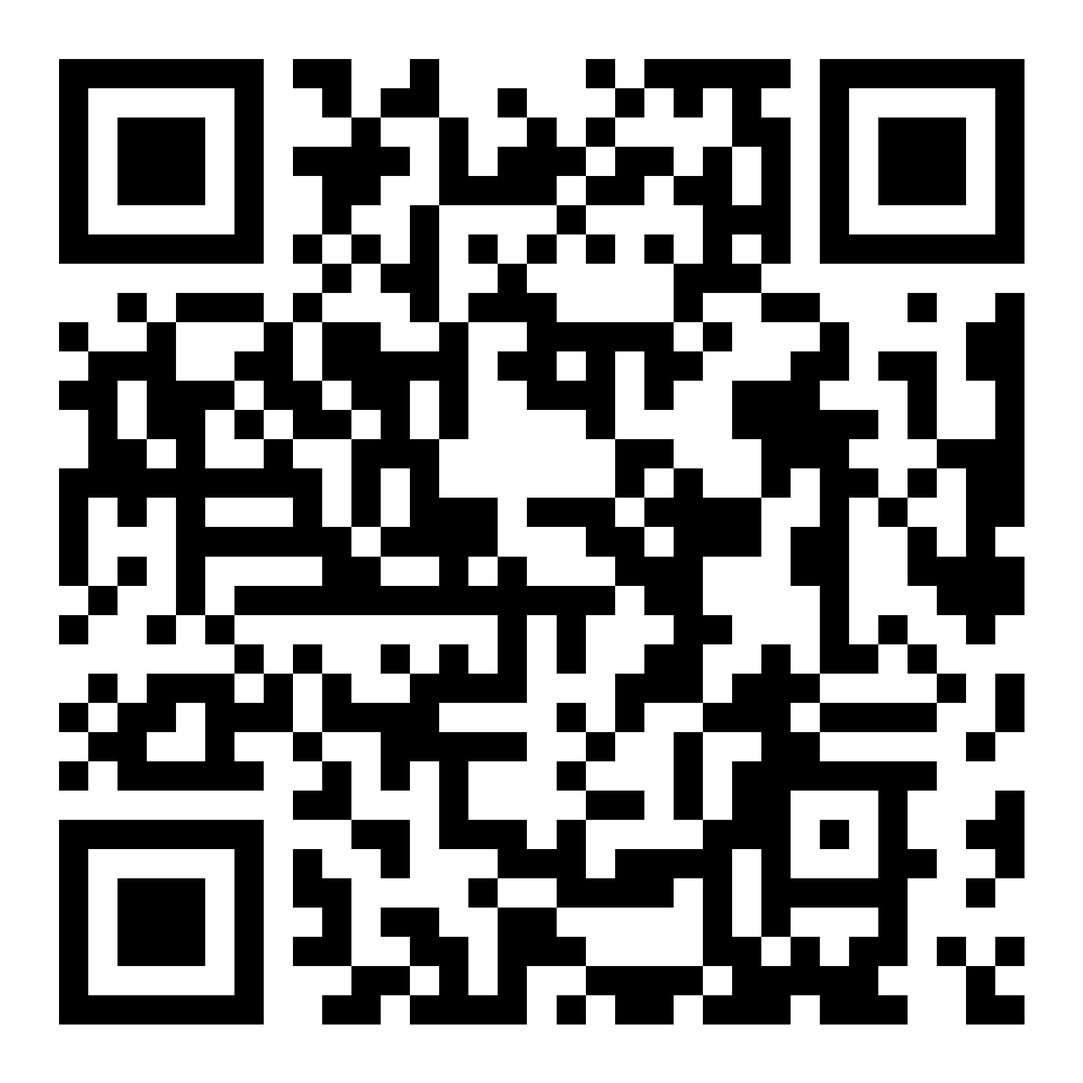
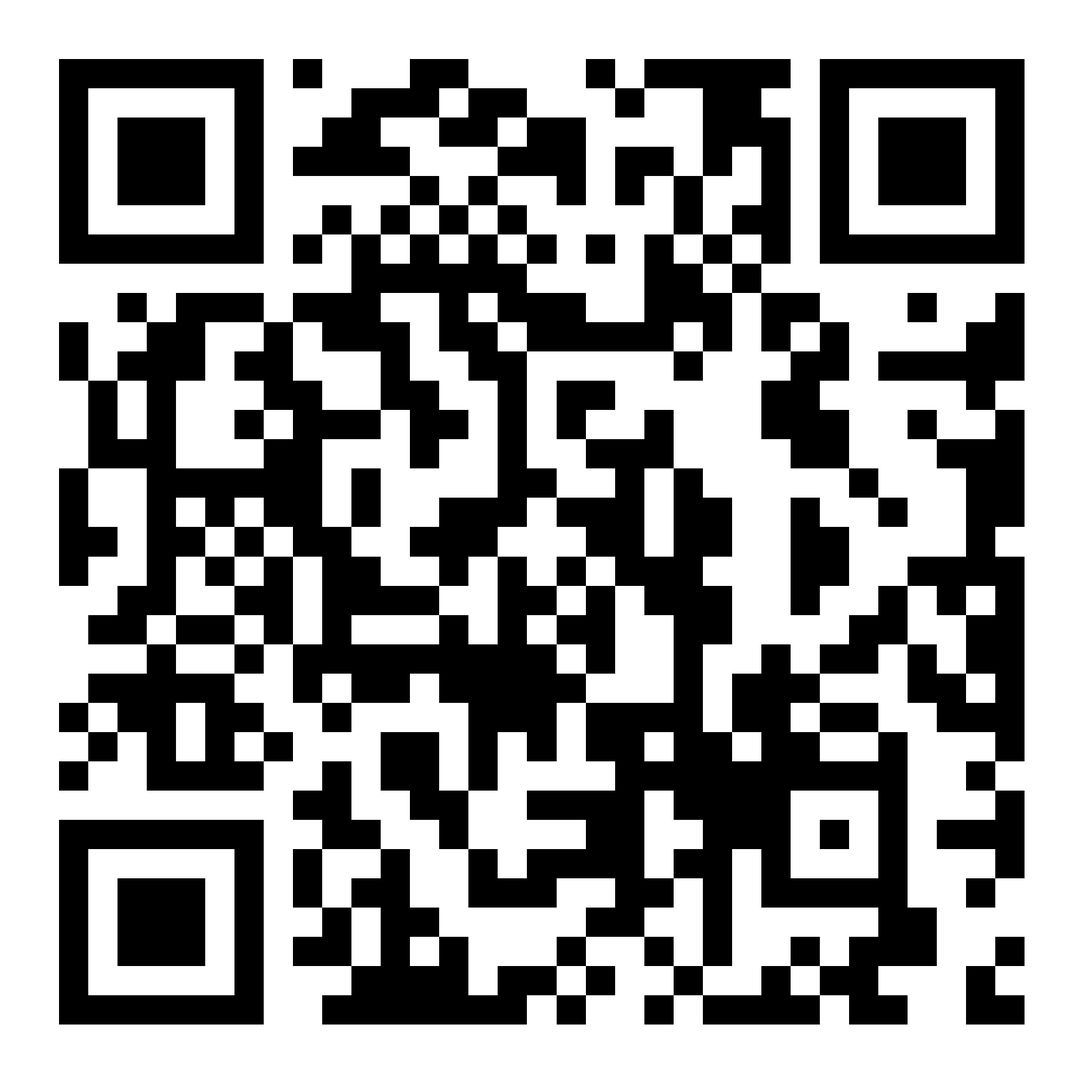
Apply the site's green palette and restructure for its own subdomain
Swaps the placeholder colors for the real ones from southhigh76.com:
#0F3E07 primary, #06280B darkest, #093F01 for borders and outlines, over
the light mint wash (#E8F3E0 to #F0F7E7) on white cards. Drops the gold
accent, which the site doesn't use.

The wall is going up as its own Netlify project at photos.southhigh76.com
rather than inside the main site, so it now lives at the root instead of
under /photos. Static files move to public/, which is the only directory
published — node_modules, the tests and the QR tooling were previously in
range of a publish = "." and would have gone up with it. The "back to the
reunion site" link becomes absolute, since "/" is now the wall itself.

The printable table tents are generated by qr/generate.mjs with the QR
inlined, so the code on the signs can't drift from the code files. Default
target is photos.southhigh76.com.

Verified the green codes decode to the right URL from the PNGs and from
the sign as a browser renders it; #0F3E07 on white is 12.3:1, well inside
what scanners need.

Claude-Session: https://claude.ai/code/session_01MLZYPyuEck4Eg8xHK2qmxk

diff --git a/qr/print-signs.html b/qr/print-signs.html
@@ -5,29 +5,29 @@
 <meta name="viewport" content="width=device-width, initial-scale=1">
 <title>Reunion Photo Wall — Printable Signs</title>
 <style>
-:root{--green:#14603c;--gold:#c8952b;--cream:#f7f4ed}
+:root{--green:#0F3E07;--green-deep:#093F01;--mint:#E8F3E0}
 *{margin:0;padding:0;box-sizing:border-box}
-body{font-family:Georgia,"Times New Roman",serif;background:#e8e6e0;color:#1a1a1a}
+body{font-family:Georgia,"Times New Roman",serif;background:#DDEAD3;color:#16210F}
 
-.hint{max-width:760px;margin:24px auto;padding:16px 20px;background:#fff;border-left:4px solid var(--gold);
+.hint{max-width:760px;margin:24px auto;padding:16px 20px;background:#fff;border-left:4px solid var(--green);
   font-family:-apple-system,BlinkMacSystemFont,"Segoe UI",Roboto,sans-serif;font-size:14px;line-height:1.6;border-radius:6px}
 .hint strong{display:block;margin-bottom:4px;font-size:15px}
 
 /* Two cards per portrait Letter page — cut across the middle for table tents. */
 .page{width:8.5in;height:11in;margin:20px auto;background:#fff;display:flex;flex-direction:column;
-  box-shadow:0 4px 24px rgba(0,0,0,.16)}
+  box-shadow:0 4px 24px rgba(15,62,7,.18)}
 .card{flex:1;display:flex;flex-direction:column;align-items:center;justify-content:center;
   text-align:center;padding:0.5in 0.6in;position:relative}
-.card + .card{border-top:2px dashed #c9c4b8}
+.card + .card{border-top:2px dashed #B9D3A6}
 
 .kicker{font-family:-apple-system,BlinkMacSystemFont,"Segoe UI",sans-serif;font-size:11pt;
-  letter-spacing:.18em;text-transform:uppercase;color:var(--gold);font-weight:700;margin-bottom:6px}
+  letter-spacing:.18em;text-transform:uppercase;color:var(--green-deep);font-weight:700;margin-bottom:6px}
 h1{font-size:30pt;color:var(--green);line-height:1.1;margin-bottom:8px}
-.sub{font-size:13pt;color:#4a4a4a;margin-bottom:16px;max-width:5in}
-.qr{width:2.5in;height:2.5in;border:10px solid #fff;outline:1px solid #e0ddd5}
+.sub{font-size:13pt;color:#3d4a36;margin-bottom:16px;max-width:5in}
+.qr{width:2.5in;height:2.5in;border:10px solid #fff;outline:1px solid #D3E5C6}
 .url{font-family:-apple-system,BlinkMacSystemFont,"Segoe UI",sans-serif;font-size:12pt;font-weight:700;
   color:var(--green);margin-top:14px;letter-spacing:.01em}
-.steps{font-family:-apple-system,BlinkMacSystemFont,"Segoe UI",sans-serif;font-size:10pt;color:#6b6b6b;margin-top:8px}
+.steps{font-family:-apple-system,BlinkMacSystemFont,"Segoe UI",sans-serif;font-size:10pt;color:#5F6B58;margin-top:8px}
 
 @media print{
   body{background:#fff}
@@ -44,7 +44,7 @@ h1{font-size:30pt;color:var(--green);line-height:1.1;margin-bottom:8px}
   <strong>How to use this sheet</strong>
   Print on regular Letter paper (portrait). You get two identical cards per page — cut along the dashed
   line and fold or stand them on the tables. Print as many pages as you need tents. The QR is vector, so
-  it stays sharp at any size. Check "Background graphics" in your print dialog so the green and gold show up.
+  it stays sharp at any size. Check "Background graphics" in your print dialog so the green shows up.
 </div>
 
 <div class="page">
@@ -54,9 +54,9 @@ h1{font-size:30pt;color:var(--green);line-height:1.1;margin-bottom:8px}
     <div class="sub">Point your phone camera at the code &mdash; your pictures go straight up on the reunion photo wall.</div>
     <svg class="qr" viewBox="0 0 37 37" shape-rendering="crispEdges" xmlns="http://www.w3.org/2000/svg">
       <path fill="#ffffff" d="M0 0h37v37H0z"/>
-      <path stroke="#14603c" d="M2 2.5h7m1 0h2m2 0h1m5 0h1m1 0h5m1 0h7M2 3.5h1m5 0h1m2 0h1m1 0h2m2 0h1m3 0h1m1 0h1m1 0h1m2 0h1m5 0h1M2 4.5h1m1 0h3m1 0h1m3 0h1m2 0h1m2 0h1m1 0h1m4 0h2m1 0h1m1 0h3m1 0h1M2 5.5h1m1 0h3m1 0h1m1 0h4m1 0h1m1 0h3m1 0h2m1 0h1m1 0h1m1 0h1m1 0h3m1 0h1M2 6.5h1m1 0h3m1 0h1m2 0h2m2 0h4m1 0h2m1 0h2m1 0h1m1 0h1m1 0h3m1 0h1M2 7.5h1m5 0h1m2 0h1m2 0h1m4 0h1m4 0h3m1 0h1m5 0h1M2 8.5h7m1 0h1m1 0h1m1 0h1m1 0h1m1 0h1m1 0h1m1 0h1m1 0h1m1 0h1m1 0h7M11 9.5h1m1 0h2m2 0h1m5 0h3M4 10.5h1m1 0h3m1 0h1m3 0h1m1 0h3m4 0h1m2 0h2m3 0h1m2 0h1M2 11.5h1m2 0h1m3 0h1m1 0h2m2 0h1m2 0h5m1 0h1m3 0h1m4 0h2M3 12.5h3m2 0h2m1 0h5m1 0h2m1 0h1m1 0h2m3 0h2m1 0h2m1 0h2M2 13.5h2m1 0h3m1 0h2m1 0h2m1 0h1m2 0h3m1 0h1m2 0h3m3 0h1m2 0h1M3 14.5h1m1 0h2m1 0h1m1 0h2m1 0h1m1 0h1m4 0h1m4 0h5m1 0h1m2 0h1M3 15.5h2m1 0h1m2 0h1m2 0h3m6 0h2m3 0h3m3 0h3M2 16.5h9m1 0h1m1 0h1m6 0h1m1 0h1m2 0h1m1 0h2m1 0h1m1 0h2M2 17.5h1m1 0h1m1 0h1m3 0h1m1 0h1m1 0h3m1 0h3m1 0h4m2 0h1m1 0h1m2 0h2M2 18.5h1m3 0h6m1 0h4m3 0h2m1 0h3m1 0h2m2 0h1m1 0h1M2 19.5h1m1 0h1m1 0h1m4 0h2m2 0h1m1 0h1m3 0h3m3 0h2m2 0h4M3 20.5h1m2 0h1m1 0h13m1 0h2m4 0h1m3 0h3M2 21.5h1m2 0h1m1 0h1m9 0h1m1 0h1m3 0h2m3 0h1m1 0h1m2 0h1M8 22.5h1m1 0h1m2 0h1m1 0h1m1 0h1m1 0h1m2 0h2m2 0h1m1 0h2m1 0h1M3 23.5h1m1 0h3m1 0h1m1 0h1m2 0h4m3 0h3m1 0h3m4 0h1m1 0h1M2 24.5h1m1 0h2m1 0h3m1 0h4m4 0h1m1 0h1m2 0h3m1 0h4m2 0h1M3 25.5h2m2 0h1m2 0h1m2 0h5m2 0h1m2 0h1m2 0h2m5 0h1M2 26.5h1m1 0h5m2 0h1m1 0h1m1 0h1m3 0h1m3 0h1m1 0h7M10 27.5h2m3 0h1m4 0h2m1 0h1m1 0h2m3 0h1m3 0h1M2 28.5h7m3 0h2m1 0h3m1 0h1m4 0h3m1 0h1m1 0h1m2 0h2M2 29.5h1m5 0h1m1 0h1m2 0h1m3 0h3m1 0h4m1 0h1m3 0h2m2 0h1M2 30.5h1m1 0h3m1 0h1m1 0h2m4 0h1m2 0h4m1 0h1m1 0h5m2 0h1M2 31.5h1m1 0h3m1 0h1m2 0h1m1 0h2m2 0h2m5 0h1m1 0h1m3 0h1M2 32.5h1m1 0h3m1 0h1m1 0h2m2 0h2m1 0h3m4 0h2m1 0h1m1 0h2m1 0h1m1 0h1M2 33.5h1m5 0h1m3 0h2m1 0h1m1 0h1m2 0h4m1 0h5m3 0h1M2 34.5h7m2 0h2m1 0h4m1 0h1m1 0h2m1 0h3m1 0h3m2 0h2"/>
+      <path stroke="#0F3E07" d="M2 2.5h7m1 0h1m3 0h2m4 0h1m1 0h5m1 0h7M2 3.5h1m5 0h1m3 0h3m1 0h2m3 0h1m2 0h2m2 0h1m5 0h1M2 4.5h1m1 0h3m1 0h1m2 0h2m2 0h2m1 0h2m4 0h3m1 0h1m1 0h3m1 0h1M2 5.5h1m1 0h3m1 0h1m1 0h4m3 0h3m1 0h2m1 0h1m1 0h1m1 0h1m1 0h3m1 0h1M2 6.5h1m1 0h3m1 0h1m5 0h1m1 0h1m2 0h1m1 0h1m1 0h1m2 0h1m1 0h1m1 0h3m1 0h1M2 7.5h1m5 0h1m2 0h1m1 0h1m1 0h1m1 0h1m5 0h1m1 0h2m1 0h1m5 0h1M2 8.5h7m1 0h1m1 0h1m1 0h1m1 0h1m1 0h1m1 0h1m1 0h1m1 0h1m1 0h1m1 0h7M12 9.5h6m4 0h2m1 0h1M4 10.5h1m1 0h3m1 0h3m2 0h1m1 0h3m2 0h3m1 0h2m3 0h1m2 0h1M2 11.5h1m2 0h2m2 0h1m1 0h3m1 0h2m1 0h5m1 0h1m1 0h1m1 0h1m4 0h2M2 12.5h1m1 0h3m1 0h2m3 0h1m2 0h2m5 0h1m3 0h2m1 0h5M3 13.5h1m1 0h1m3 0h2m2 0h2m2 0h1m1 0h2m5 0h2m5 0h1M3 14.5h1m1 0h1m2 0h1m1 0h3m1 0h2m1 0h1m1 0h1m2 0h1m3 0h3m2 0h1m2 0h1M3 15.5h3m3 0h2m3 0h1m2 0h1m2 0h3m4 0h2m3 0h3M2 16.5h1m2 0h6m1 0h1m4 0h2m2 0h1m1 0h1m5 0h1m3 0h2M2 17.5h1m2 0h1m1 0h1m1 0h2m1 0h1m2 0h3m1 0h3m1 0h2m2 0h1m2 0h1m2 0h2M2 18.5h2m1 0h2m1 0h1m1 0h2m2 0h3m3 0h2m1 0h2m2 0h2m4 0h1M2 19.5h1m2 0h1m1 0h1m1 0h1m1 0h2m2 0h1m1 0h1m1 0h1m1 0h3m3 0h2m2 0h4M4 20.5h2m2 0h2m1 0h4m2 0h2m1 0h1m1 0h3m2 0h1m2 0h1m1 0h1m1 0h1M3 21.5h2m1 0h2m1 0h1m1 0h1m3 0h1m1 0h1m1 0h2m2 0h2m4 0h2m2 0h2M5 22.5h1m2 0h1m1 0h9m1 0h1m2 0h1m2 0h1m1 0h2m1 0h1m1 0h2M3 23.5h5m2 0h1m1 0h2m1 0h5m3 0h1m1 0h3m3 0h2m1 0h1M2 24.5h1m1 0h2m1 0h2m2 0h1m4 0h3m1 0h4m1 0h2m1 0h2m2 0h3M3 25.5h1m1 0h1m1 0h1m1 0h1m3 0h2m1 0h1m1 0h1m1 0h2m1 0h2m1 0h2m2 0h1m3 0h1M2 26.5h1m2 0h4m2 0h1m1 0h2m1 0h1m4 0h10m2 0h1M10 27.5h2m2 0h2m2 0h4m1 0h4m3 0h1m3 0h1M2 28.5h7m2 0h2m2 0h1m4 0h2m2 0h3m1 0h1m1 0h1m1 0h3M2 29.5h1m5 0h1m1 0h1m2 0h1m2 0h1m1 0h4m1 0h2m1 0h1m3 0h1m3 0h1M2 30.5h1m1 0h3m1 0h1m1 0h1m1 0h2m2 0h3m2 0h2m1 0h1m1 0h5m2 0h1M2 31.5h1m1 0h3m1 0h1m2 0h1m1 0h2m5 0h2m2 0h1m5 0h2M2 32.5h1m1 0h3m1 0h1m1 0h2m1 0h1m1 0h1m3 0h1m2 0h1m1 0h1m2 0h1m1 0h3m2 0h1M2 33.5h1m5 0h1m3 0h4m1 0h2m1 0h1m2 0h1m2 0h1m1 0h2m3 0h1M2 34.5h7m2 0h7m1 0h1m2 0h1m1 0h4m1 0h2m2 0h2"/>
     </svg>
-    <div class="url">southhigh76.com/photos</div>
+    <div class="url">photos.southhigh76.com</div>
     <div class="steps">No app, no sign-up &middot; See everyone else&rsquo;s photos too</div>
   </div>
   <div class="card">
@@ -65,9 +65,9 @@ h1{font-size:30pt;color:var(--green);line-height:1.1;margin-bottom:8px}
     <div class="sub">Point your phone camera at the code &mdash; your pictures go straight up on the reunion photo wall.</div>
     <svg class="qr" viewBox="0 0 37 37" shape-rendering="crispEdges" xmlns="http://www.w3.org/2000/svg">
       <path fill="#ffffff" d="M0 0h37v37H0z"/>
-      <path stroke="#14603c" d="M2 2.5h7m1 0h2m2 0h1m5 0h1m1 0h5m1 0h7M2 3.5h1m5 0h1m2 0h1m1 0h2m2 0h1m3 0h1m1 0h1m1 0h1m2 0h1m5 0h1M2 4.5h1m1 0h3m1 0h1m3 0h1m2 0h1m2 0h1m1 0h1m4 0h2m1 0h1m1 0h3m1 0h1M2 5.5h1m1 0h3m1 0h1m1 0h4m1 0h1m1 0h3m1 0h2m1 0h1m1 0h1m1 0h1m1 0h3m1 0h1M2 6.5h1m1 0h3m1 0h1m2 0h2m2 0h4m1 0h2m1 0h2m1 0h1m1 0h1m1 0h3m1 0h1M2 7.5h1m5 0h1m2 0h1m2 0h1m4 0h1m4 0h3m1 0h1m5 0h1M2 8.5h7m1 0h1m1 0h1m1 0h1m1 0h1m1 0h1m1 0h1m1 0h1m1 0h1m1 0h1m1 0h7M11 9.5h1m1 0h2m2 0h1m5 0h3M4 10.5h1m1 0h3m1 0h1m3 0h1m1 0h3m4 0h1m2 0h2m3 0h1m2 0h1M2 11.5h1m2 0h1m3 0h1m1 0h2m2 0h1m2 0h5m1 0h1m3 0h1m4 0h2M3 12.5h3m2 0h2m1 0h5m1 0h2m1 0h1m1 0h2m3 0h2m1 0h2m1 0h2M2 13.5h2m1 0h3m1 0h2m1 0h2m1 0h1m2 0h3m1 0h1m2 0h3m3 0h1m2 0h1M3 14.5h1m1 0h2m1 0h1m1 0h2m1 0h1m1 0h1m4 0h1m4 0h5m1 0h1m2 0h1M3 15.5h2m1 0h1m2 0h1m2 0h3m6 0h2m3 0h3m3 0h3M2 16.5h9m1 0h1m1 0h1m6 0h1m1 0h1m2 0h1m1 0h2m1 0h1m1 0h2M2 17.5h1m1 0h1m1 0h1m3 0h1m1 0h1m1 0h3m1 0h3m1 0h4m2 0h1m1 0h1m2 0h2M2 18.5h1m3 0h6m1 0h4m3 0h2m1 0h3m1 0h2m2 0h1m1 0h1M2 19.5h1m1 0h1m1 0h1m4 0h2m2 0h1m1 0h1m3 0h3m3 0h2m2 0h4M3 20.5h1m2 0h1m1 0h13m1 0h2m4 0h1m3 0h3M2 21.5h1m2 0h1m1 0h1m9 0h1m1 0h1m3 0h2m3 0h1m1 0h1m2 0h1M8 22.5h1m1 0h1m2 0h1m1 0h1m1 0h1m1 0h1m2 0h2m2 0h1m1 0h2m1 0h1M3 23.5h1m1 0h3m1 0h1m1 0h1m2 0h4m3 0h3m1 0h3m4 0h1m1 0h1M2 24.5h1m1 0h2m1 0h3m1 0h4m4 0h1m1 0h1m2 0h3m1 0h4m2 0h1M3 25.5h2m2 0h1m2 0h1m2 0h5m2 0h1m2 0h1m2 0h2m5 0h1M2 26.5h1m1 0h5m2 0h1m1 0h1m1 0h1m3 0h1m3 0h1m1 0h7M10 27.5h2m3 0h1m4 0h2m1 0h1m1 0h2m3 0h1m3 0h1M2 28.5h7m3 0h2m1 0h3m1 0h1m4 0h3m1 0h1m1 0h1m2 0h2M2 29.5h1m5 0h1m1 0h1m2 0h1m3 0h3m1 0h4m1 0h1m3 0h2m2 0h1M2 30.5h1m1 0h3m1 0h1m1 0h2m4 0h1m2 0h4m1 0h1m1 0h5m2 0h1M2 31.5h1m1 0h3m1 0h1m2 0h1m1 0h2m2 0h2m5 0h1m1 0h1m3 0h1M2 32.5h1m1 0h3m1 0h1m1 0h2m2 0h2m1 0h3m4 0h2m1 0h1m1 0h2m1 0h1m1 0h1M2 33.5h1m5 0h1m3 0h2m1 0h1m1 0h1m2 0h4m1 0h5m3 0h1M2 34.5h7m2 0h2m1 0h4m1 0h1m1 0h2m1 0h3m1 0h3m2 0h2"/>
+      <path stroke="#0F3E07" d="M2 2.5h7m1 0h1m3 0h2m4 0h1m1 0h5m1 0h7M2 3.5h1m5 0h1m3 0h3m1 0h2m3 0h1m2 0h2m2 0h1m5 0h1M2 4.5h1m1 0h3m1 0h1m2 0h2m2 0h2m1 0h2m4 0h3m1 0h1m1 0h3m1 0h1M2 5.5h1m1 0h3m1 0h1m1 0h4m3 0h3m1 0h2m1 0h1m1 0h1m1 0h1m1 0h3m1 0h1M2 6.5h1m1 0h3m1 0h1m5 0h1m1 0h1m2 0h1m1 0h1m1 0h1m2 0h1m1 0h1m1 0h3m1 0h1M2 7.5h1m5 0h1m2 0h1m1 0h1m1 0h1m1 0h1m5 0h1m1 0h2m1 0h1m5 0h1M2 8.5h7m1 0h1m1 0h1m1 0h1m1 0h1m1 0h1m1 0h1m1 0h1m1 0h1m1 0h1m1 0h7M12 9.5h6m4 0h2m1 0h1M4 10.5h1m1 0h3m1 0h3m2 0h1m1 0h3m2 0h3m1 0h2m3 0h1m2 0h1M2 11.5h1m2 0h2m2 0h1m1 0h3m1 0h2m1 0h5m1 0h1m1 0h1m1 0h1m4 0h2M2 12.5h1m1 0h3m1 0h2m3 0h1m2 0h2m5 0h1m3 0h2m1 0h5M3 13.5h1m1 0h1m3 0h2m2 0h2m2 0h1m1 0h2m5 0h2m5 0h1M3 14.5h1m1 0h1m2 0h1m1 0h3m1 0h2m1 0h1m1 0h1m2 0h1m3 0h3m2 0h1m2 0h1M3 15.5h3m3 0h2m3 0h1m2 0h1m2 0h3m4 0h2m3 0h3M2 16.5h1m2 0h6m1 0h1m4 0h2m2 0h1m1 0h1m5 0h1m3 0h2M2 17.5h1m2 0h1m1 0h1m1 0h2m1 0h1m2 0h3m1 0h3m1 0h2m2 0h1m2 0h1m2 0h2M2 18.5h2m1 0h2m1 0h1m1 0h2m2 0h3m3 0h2m1 0h2m2 0h2m4 0h1M2 19.5h1m2 0h1m1 0h1m1 0h1m1 0h2m2 0h1m1 0h1m1 0h1m1 0h3m3 0h2m2 0h4M4 20.5h2m2 0h2m1 0h4m2 0h2m1 0h1m1 0h3m2 0h1m2 0h1m1 0h1m1 0h1M3 21.5h2m1 0h2m1 0h1m1 0h1m3 0h1m1 0h1m1 0h2m2 0h2m4 0h2m2 0h2M5 22.5h1m2 0h1m1 0h9m1 0h1m2 0h1m2 0h1m1 0h2m1 0h1m1 0h2M3 23.5h5m2 0h1m1 0h2m1 0h5m3 0h1m1 0h3m3 0h2m1 0h1M2 24.5h1m1 0h2m1 0h2m2 0h1m4 0h3m1 0h4m1 0h2m1 0h2m2 0h3M3 25.5h1m1 0h1m1 0h1m1 0h1m3 0h2m1 0h1m1 0h1m1 0h2m1 0h2m1 0h2m2 0h1m3 0h1M2 26.5h1m2 0h4m2 0h1m1 0h2m1 0h1m4 0h10m2 0h1M10 27.5h2m2 0h2m2 0h4m1 0h4m3 0h1m3 0h1M2 28.5h7m2 0h2m2 0h1m4 0h2m2 0h3m1 0h1m1 0h1m1 0h3M2 29.5h1m5 0h1m1 0h1m2 0h1m2 0h1m1 0h4m1 0h2m1 0h1m3 0h1m3 0h1M2 30.5h1m1 0h3m1 0h1m1 0h1m1 0h2m2 0h3m2 0h2m1 0h1m1 0h5m2 0h1M2 31.5h1m1 0h3m1 0h1m2 0h1m1 0h2m5 0h2m2 0h1m5 0h2M2 32.5h1m1 0h3m1 0h1m1 0h2m1 0h1m1 0h1m3 0h1m2 0h1m1 0h1m2 0h1m1 0h3m2 0h1M2 33.5h1m5 0h1m3 0h4m1 0h2m1 0h1m2 0h1m2 0h1m1 0h2m3 0h1M2 34.5h7m2 0h7m1 0h1m2 0h1m1 0h4m1 0h2m2 0h2"/>
     </svg>
-    <div class="url">southhigh76.com/photos</div>
+    <div class="url">photos.southhigh76.com</div>
     <div class="steps">No app, no sign-up &middot; See everyone else&rsquo;s photos too</div>
   </div>
 </div>

diff --git a/public/index.html b/public/index.html
@@ -5,7 +5,7 @@
 <meta name="viewport" content="width=device-width, initial-scale=1, viewport-fit=cover">
 <title>Reunion Photos — South High Class of '76</title>
 <meta name="description" content="Share your photos from the South High Class of 1976 reunion.">
-<meta name="theme-color" content="#14603c">
+<meta name="theme-color" content="#0F3E07">
 <style>
 /* ---------------------------------------------------------------
    Palette. These are placeholders until the main site's stylesheet
@@ -13,23 +13,28 @@
    whole page follows.
    --------------------------------------------------------------- */
 :root{
-  --green:#14603c;
-  --green-dark:#0d4429;
-  --gold:#c8952b;
-  --cream:#f7f4ed;
-  --ink:#1a1a1a;
-  --muted:#6b7280;
+  /* Site palette, taken from southhigh76.com. */
+  --green:#0F3E07;        /* primary school green — headings, header, buttons */
+  --green-dark:#06280B;   /* deepest shade — hover, accents */
+  --green-deep:#093F01;   /* button borders and outlines */
+  --mint-1:#E8F3E0;       /* background wash, top */
+  --mint-2:#F0F7E7;       /* background wash, bottom */
+  --mint-soft:#CFE5BE;    /* light green for text on the dark header */
 
-  --card:#ffffff;
-  --border:#e3e0d8;
+  --ink:#16210F;
+  --muted:#5F6B58;
+
+  --card:#FFFFFF;
+  --border:#D3E5C6;
   --radius:14px;
-  --shadow:0 2px 14px rgba(13,68,41,.09);
-  --shadow-lg:0 10px 40px rgba(13,68,41,.18);
+  --shadow:0 2px 14px rgba(15,62,7,.10);
+  --shadow-lg:0 10px 40px rgba(15,62,7,.20);
 }
 *{margin:0;padding:0;box-sizing:border-box;-webkit-tap-highlight-color:transparent}
 body{
   font-family:-apple-system,BlinkMacSystemFont,"Segoe UI",Roboto,Helvetica,Arial,sans-serif;
-  background:var(--cream);color:var(--ink);line-height:1.5;
+  background:linear-gradient(180deg,var(--mint-1),var(--mint-2)) fixed;
+  color:var(--ink);line-height:1.5;
   -webkit-font-smoothing:antialiased;
 }
 img{max-width:100%;display:block}
@@ -39,7 +44,7 @@ img{max-width:100%;display:block}
 header{background:var(--green);color:#fff;padding:28px 0 24px;text-align:center}
 header .kicker{
   font-size:12px;letter-spacing:.16em;text-transform:uppercase;
-  color:var(--gold);font-weight:700;margin-bottom:6px;
+  color:var(--mint-soft);font-weight:700;margin-bottom:6px;
 }
 header h1{font-size:clamp(24px,5vw,34px);font-weight:800;letter-spacing:-.5px}
 header p{color:rgba(255,255,255,.72);font-size:15px;margin-top:6px}
@@ -59,7 +64,7 @@ header a.home:hover{color:#fff}
 
 .field{margin-bottom:14px}
 .field label{display:block;font-size:13px;font-weight:700;margin-bottom:5px}
-.field .req{color:var(--gold)}
+.field .req{color:var(--green-deep)}
 .field input[type=text],.field textarea{
   width:100%;font:inherit;font-size:16px; /* 16px stops iOS zooming on focus */
   padding:11px 13px;border:1px solid var(--border);border-radius:9px;
@@ -73,17 +78,17 @@ header a.home:hover{color:#fff}
 
 .drop{
   border:2px dashed var(--border);border-radius:12px;padding:26px 16px;text-align:center;
-  background:#fbfaf6;cursor:pointer;transition:border-color .15s,background .15s;
+  background:#F7FBF3;cursor:pointer;transition:border-color .15s,background .15s;
 }
-.drop:hover,.drop.over{border-color:var(--green);background:#f1f7f3}
+.drop:hover,.drop.over{border-color:var(--green);background:#EAF4E1}
 .drop .icon{font-size:30px;line-height:1;margin-bottom:8px}
 .drop .big{font-weight:700;font-size:15px}
 .drop .small{color:var(--muted);font-size:13px;margin-top:3px}
 
 .picked{margin-top:12px;display:grid;grid-template-columns:repeat(auto-fill,minmax(72px,1fr));gap:8px}
-.picked figure{position:relative;aspect-ratio:1;border-radius:8px;overflow:hidden;background:#eee}
+.picked figure{position:relative;aspect-ratio:1;border-radius:8px;overflow:hidden;background:#DFEDD4}
 .picked figure.noprev::after{content:'\1F4F7';position:absolute;inset:0;display:flex;align-items:center;
-  justify-content:center;font-size:22px;background:#e6e2d9}
+  justify-content:center;font-size:22px;background:#DFEDD4}
 .picked img{width:100%;height:100%;object-fit:cover}
 .picked button{
   position:absolute;top:3px;right:3px;width:20px;height:20px;border:none;border-radius:50%;
@@ -93,6 +98,7 @@ header a.home:hover{color:#fff}
 .btn{
   width:100%;margin-top:16px;padding:14px;border:none;border-radius:10px;
   background:var(--green);color:#fff;font:inherit;font-size:16px;font-weight:700;cursor:pointer;
+  border:1px solid var(--green-deep);
   transition:background .15s;
 }
 .btn:hover:not(:disabled){background:var(--green-dark)}
@@ -100,7 +106,7 @@ header a.home:hover{color:#fff}
 
 .bar{height:6px;background:var(--border);border-radius:99px;overflow:hidden;margin-top:12px;display:none}
 .bar.on{display:block}
-.bar i{display:block;height:100%;width:0;background:var(--gold);transition:width .25s}
+.bar i{display:block;height:100%;width:0;background:var(--green);transition:width .25s}
 
 .msg{margin-top:12px;padding:11px 13px;border-radius:9px;font-size:14px;display:none}
 .msg.on{display:block}
@@ -122,7 +128,7 @@ header a.home:hover{color:#fff}
   background:var(--card);border:1px solid var(--border);border-radius:12px;overflow:hidden;
   box-shadow:var(--shadow);position:relative;
 }
-.card .ph{aspect-ratio:4/3;background:#e9e6df;cursor:zoom-in}
+.card .ph{aspect-ratio:4/3;background:#DFEDD4;cursor:zoom-in}
 .card .ph.unshowable{display:flex;align-items:center;justify-content:center;cursor:default}
 .card .ph.unshowable a{display:flex;flex-direction:column;align-items:center;gap:6px;
   color:var(--green);text-decoration:none;font-size:12.5px;font-weight:700}
@@ -142,7 +148,7 @@ header a.home:hover{color:#fff}
   background:#fff;border-radius:9px;font:inherit;font-weight:700;cursor:pointer}
 
 /* ---------- lightbox ---------- */
-.lb{position:fixed;inset:0;background:rgba(8,28,18,.94);z-index:60;display:none;
+.lb{position:fixed;inset:0;background:rgba(6,22,4,.95);z-index:60;display:none;
   align-items:center;justify-content:center;padding:20px}
 .lb.on{display:flex}
 .lb img{max-width:100%;max-height:78vh;object-fit:contain;border-radius:6px}
@@ -164,7 +170,7 @@ header a.home:hover{color:#fff}
     <div class="kicker">South High &middot; Class of 1976</div>
     <h1>Reunion Photo Wall</h1>
     <p>Snap it, share it — it shows up here right away.</p>
-    <a class="home" href="/">&larr; Back to the reunion site</a>
+    <a class="home" href="https://southhigh76.com">&larr; Back to the reunion site</a>
   </div>
 </header>
 
@@ -337,7 +343,7 @@ header a.home:hover{color:#fff}
     if (heicDecoder) return heicDecoder;
     heicDecoder = new Promise(function(resolve, reject){
       var s = document.createElement("script");
-      s.src = "/photos/vendor/heic2any.min.js";
+      s.src = "/vendor/heic2any.min.js";
       s.onload = function(){ window.heic2any ? resolve(window.heic2any) : reject(); };
       s.onerror = reject;
       document.head.appendChild(s);

diff --git a/public/admin.html b/public/admin.html
@@ -6,16 +6,18 @@
 <title>Photo Wall — Moderation</title>
 <meta name="robots" content="noindex, nofollow">
 <style>
-:root{--green:#14603c;--cream:#f7f4ed;--border:#e3e0d8;--muted:#6b7280;--red:#b3261e}
+:root{--green:#0F3E07;--green-dark:#06280B;--green-deep:#093F01;
+  --mint-1:#E8F3E0;--mint-2:#F0F7E7;--border:#D3E5C6;--muted:#5F6B58;--red:#b3261e}
 *{margin:0;padding:0;box-sizing:border-box}
 body{font-family:-apple-system,BlinkMacSystemFont,"Segoe UI",Roboto,Helvetica,Arial,sans-serif;
-  background:var(--cream);color:#1a1a1a;line-height:1.5}
+  background:linear-gradient(180deg,var(--mint-1),var(--mint-2)) fixed;
+  color:#16210F;line-height:1.5}
 .wrap{max-width:1100px;margin:0 auto;padding:0 16px}
 header{background:var(--green);color:#fff;padding:20px 0}
 header h1{font-size:20px;font-weight:800}
 header p{font-size:13px;color:rgba(255,255,255,.7);margin-top:2px}
 .gate{max-width:380px;margin:60px auto;background:#fff;border:1px solid var(--border);
-  border-radius:14px;padding:24px;box-shadow:0 2px 14px rgba(13,68,41,.09)}
+  border-radius:14px;padding:24px;box-shadow:0 2px 14px rgba(15,62,7,.10)}
 .gate h2{font-size:17px;margin-bottom:4px}
 .gate p{color:var(--muted);font-size:13.5px;margin-bottom:16px}
 input[type=password]{width:100%;font:inherit;font-size:16px;padding:11px 13px;
@@ -30,7 +32,7 @@ button{font:inherit;cursor:pointer}
 .bar .n{color:var(--muted);font-size:14px}
 .grid{display:grid;grid-template-columns:repeat(auto-fill,minmax(180px,1fr));gap:12px;padding-bottom:40px}
 .card{background:#fff;border:1px solid var(--border);border-radius:12px;overflow:hidden;position:relative}
-.card .ph{aspect-ratio:4/3;background:#e9e6df}
+.card .ph{aspect-ratio:4/3;background:#DFEDD4}
 .card .ph img{width:100%;height:100%;object-fit:cover;display:block}
 .card .meta{padding:9px 11px}
 .card .cap{font-size:13px}

diff --git a/README.md b/README.md
@@ -4,39 +4,36 @@ Reunion site for the South High Class of 1976, hosted on Netlify.
 
 ---
 
-## ⚠ Read this before connecting Netlify to this repo
+## How this is deployed
 
-**This repo does not yet contain the live site.** It currently holds only the
-photo-wall feature described below. The live site at southhigh76.com was
-deployed to Netlify by hand, so its HTML lives in the Netlify deploy and
-nowhere else.
+The photo wall runs as its **own Netlify project**, served at
+**photos.southhigh76.com** — separate from the main southhigh76.com site,
+which is untouched by anything here.
 
-If you connect this repo to the Netlify project as-is, **the next deploy will
-replace the live site with just the photo wall.** Don't do that.
+That separation was deliberate: the main site was deployed to Netlify by hand,
+so its source exists only inside that Netlify deploy. Standing the wall up on
+its own subdomain means it ships without needing those files, and there is no
+way for a deploy here to disturb the live site.
 
-The order that works:
+`public/` is the only directory published to the web. Everything else — the
+tests, the QR tooling, `node_modules` — stays off it.
 
-1. In Netlify: **Deploys → the current published deploy → Download deploy**.
-2. Unzip it into this repo alongside the `photos/`, `netlify/` and `qr/`
-   folders, so `index.html` and the rest of the site sit at the repo root.
-3. Commit that.
-4. *Then* link the Netlify project to this repo (Site configuration → Build &
-   deploy → Link repository) and set the publish directory to `.`.
-
-After that, every push deploys, and the site is version-controlled.
+If the main site's source ever turns up and you'd rather have the wall at
+`southhigh76.com/photos`, move these files into that project and regenerate
+the QR codes for the new URL (see below). Nothing else needs to change.
 
 ---
 
 ## The reunion photo wall
 
-A QR code on the tables sends people to `southhigh76.com/photos`, where they
+A QR code on the tables sends people to **photos.southhigh76.com**, where they
 add photos from their phone and watch them appear on a shared wall — no app,
 no account, no sign-up.
 
 | Path | What it is |
 | --- | --- |
-| `/photos` | Upload form + live gallery (this is where the QR code points) |
-| `/photos/admin.html` | Password-protected moderation — delete anything |
+| `/` | Upload form + live gallery (this is where the QR code points) |
+| `/admin` | Password-protected moderation — delete anything |
 | `/api/upload` | Accepts the photos |
 | `/api/photos` | Lists the wall, newest first, 60 at a time |
 | `/api/photo/:id` | Serves one image |
@@ -55,7 +52,7 @@ variables**:
 REUNION_ADMIN_PASSWORD = <pick something>
 ```
 
-Until that's set, `/photos/admin.html` refuses every password rather than
+Until that's set, `/admin` refuses every password rather than
 letting anyone in. Nothing else needs configuring; Blobs provisions itself.
 
 ### Moderation
@@ -65,7 +62,7 @@ Two ways to take one down:
 
 - Whoever uploaded it sees a **Remove** button on their own photos, on the
   device they uploaded from.
-- You can delete anything from `/photos/admin.html` with the admin password.
+- You can delete anything from `/admin` with the admin password.
 
 Keep that admin page open on your phone during the event and a bad photo is
 gone in two taps.
@@ -86,7 +83,7 @@ before it ever reaches the wall:
 1. iOS usually converts on its way out of the photo picker.
 2. If not, Safari's own decoder handles it during the resize step.
 3. Failing both — an Android phone set to "high efficiency", say — the page
-   lazy-loads a HEIC decoder from `photos/vendor/` and converts it there.
+   lazy-loads a HEIC decoder from `public/vendor/` and converts it there.
 
 If every one of those fails the photo is still uploaded and kept rather than
 lost, and the wall shows it as a download link instead of a broken tile.
@@ -108,16 +105,18 @@ Print-ready files are in `qr/`:
 
 - **`print-signs.html`** — open it and print. Two table-tent cards per page,
   cut along the dashed line. Tick "Background graphics" in the print dialog.
+  This file is generated by `generate.mjs` with the QR inlined, so the code on
+  the tents can't drift out of sync — edit the generator, not this file.
 - **`reunion-photos-qr.svg`** — vector, for a banner or anything large
 - **`reunion-photos-qr.png`** — 2000px, green, for texting or social
 - **`reunion-photos-qr-black.png`** — plain black, for cheap printing
 
-All of them point to `https://southhigh76.com/photos`. To regenerate — after
+All of them point to `https://photos.southhigh76.com`. To regenerate — after
 a URL change, or to make a code for a preview deploy:
 
 ```bash
 npm install
-npm run qr                          # rebuilds all three at the default URL
+npm run qr                          # rebuilds the codes and the signs
 node qr/generate.mjs https://other-url.example/photos
 ```
 
